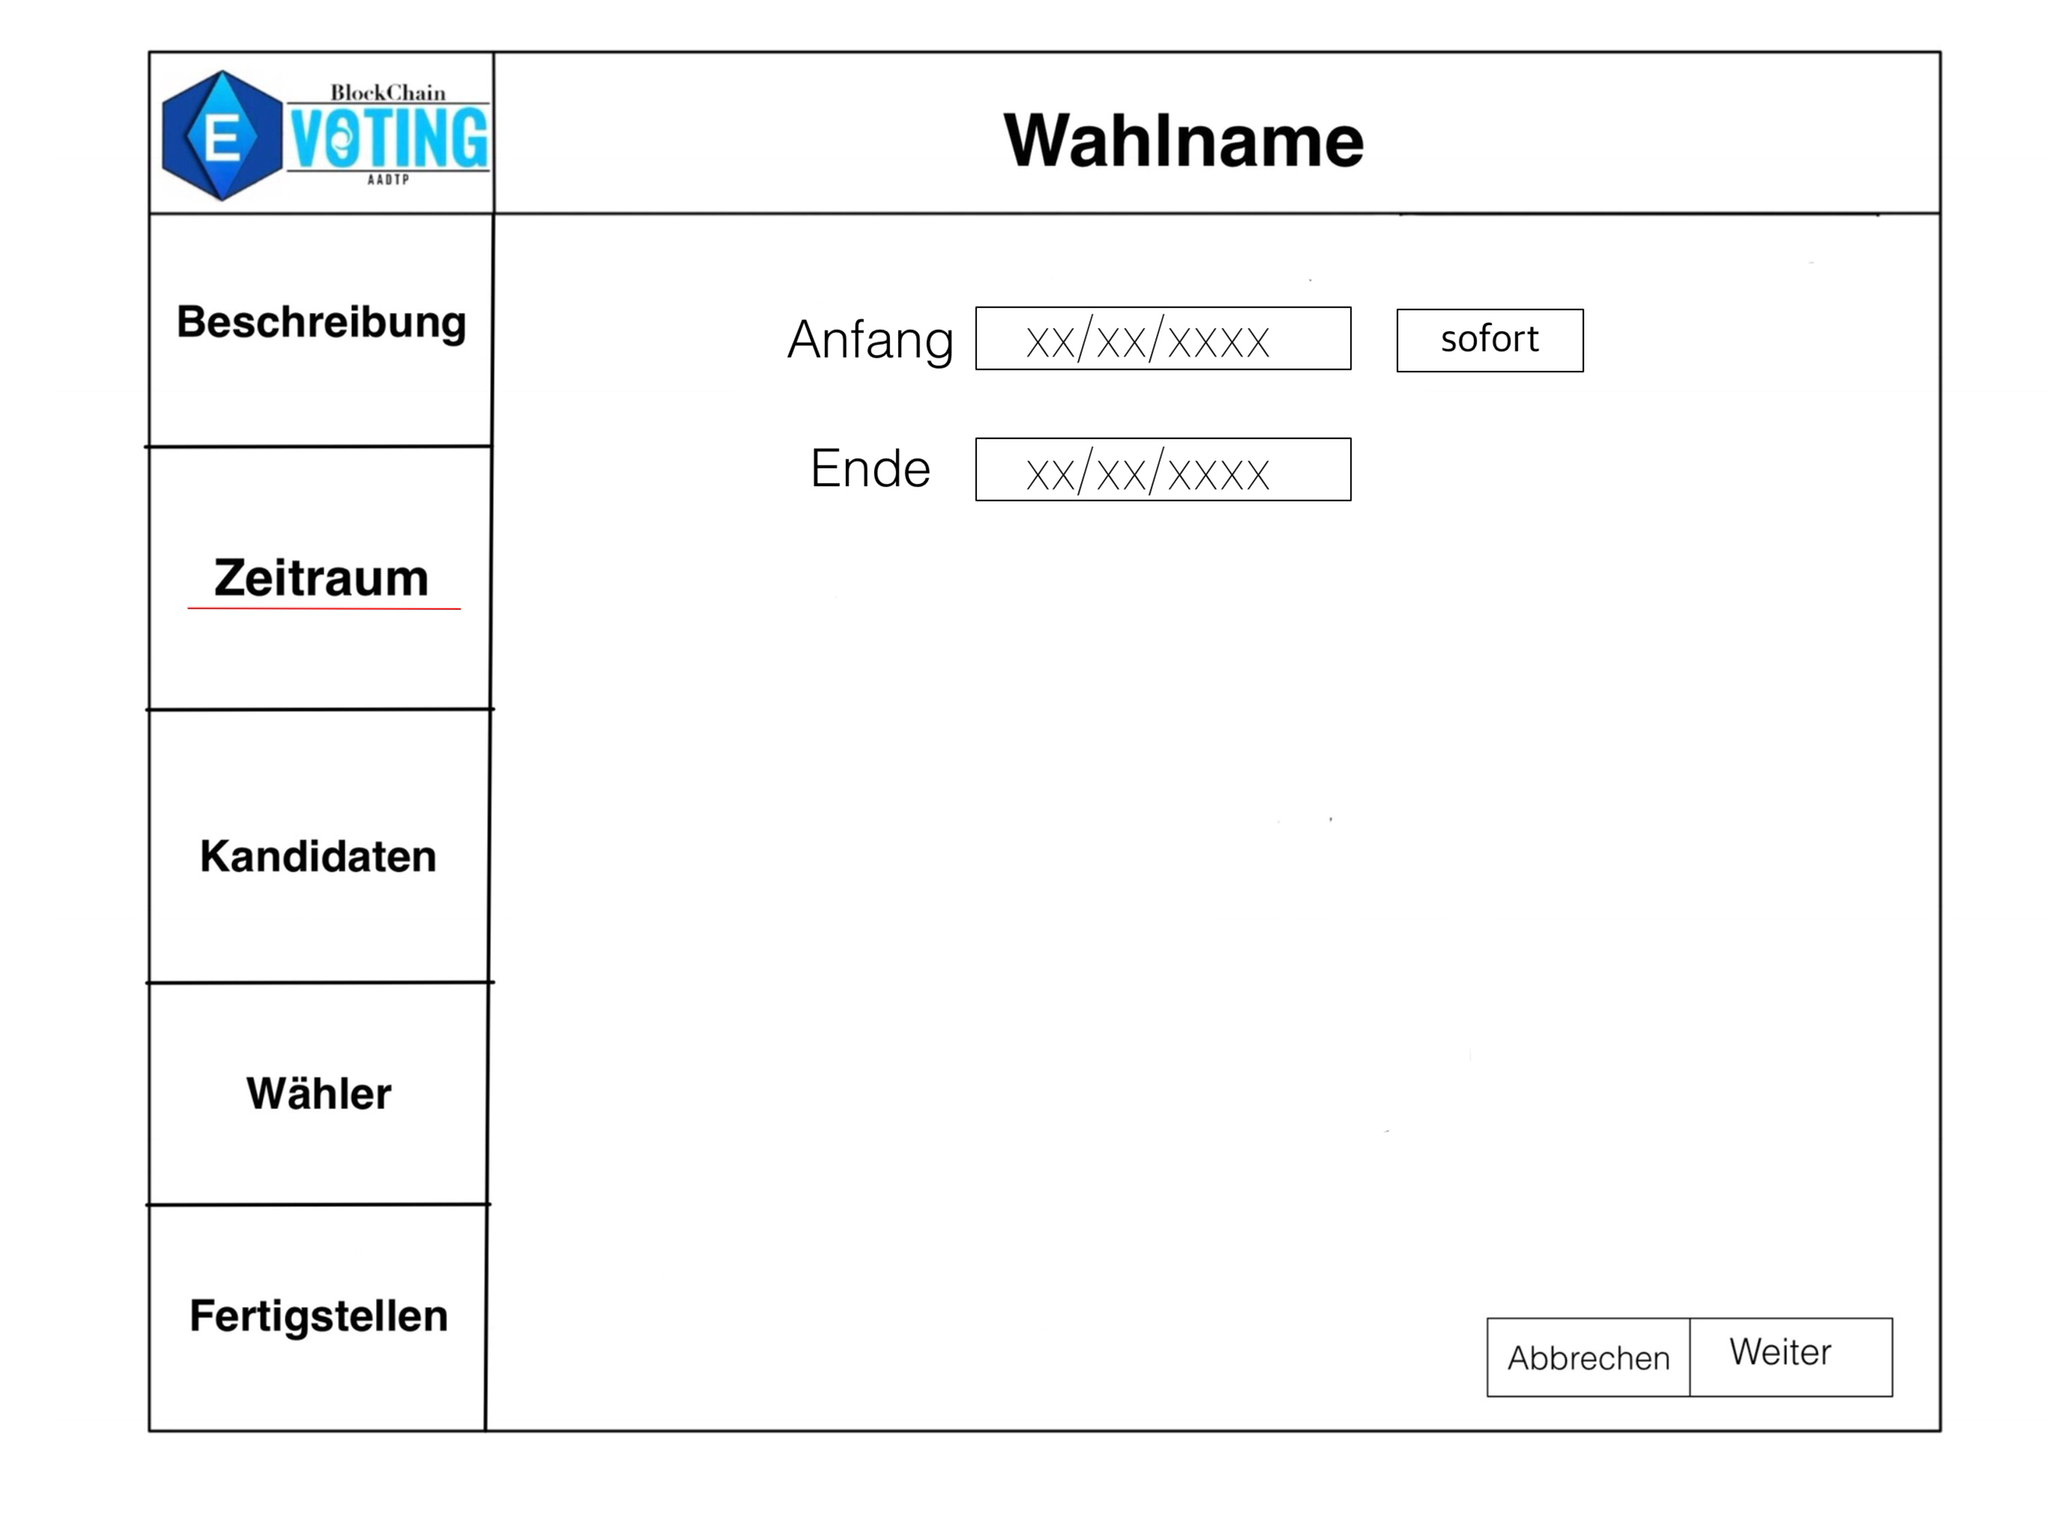
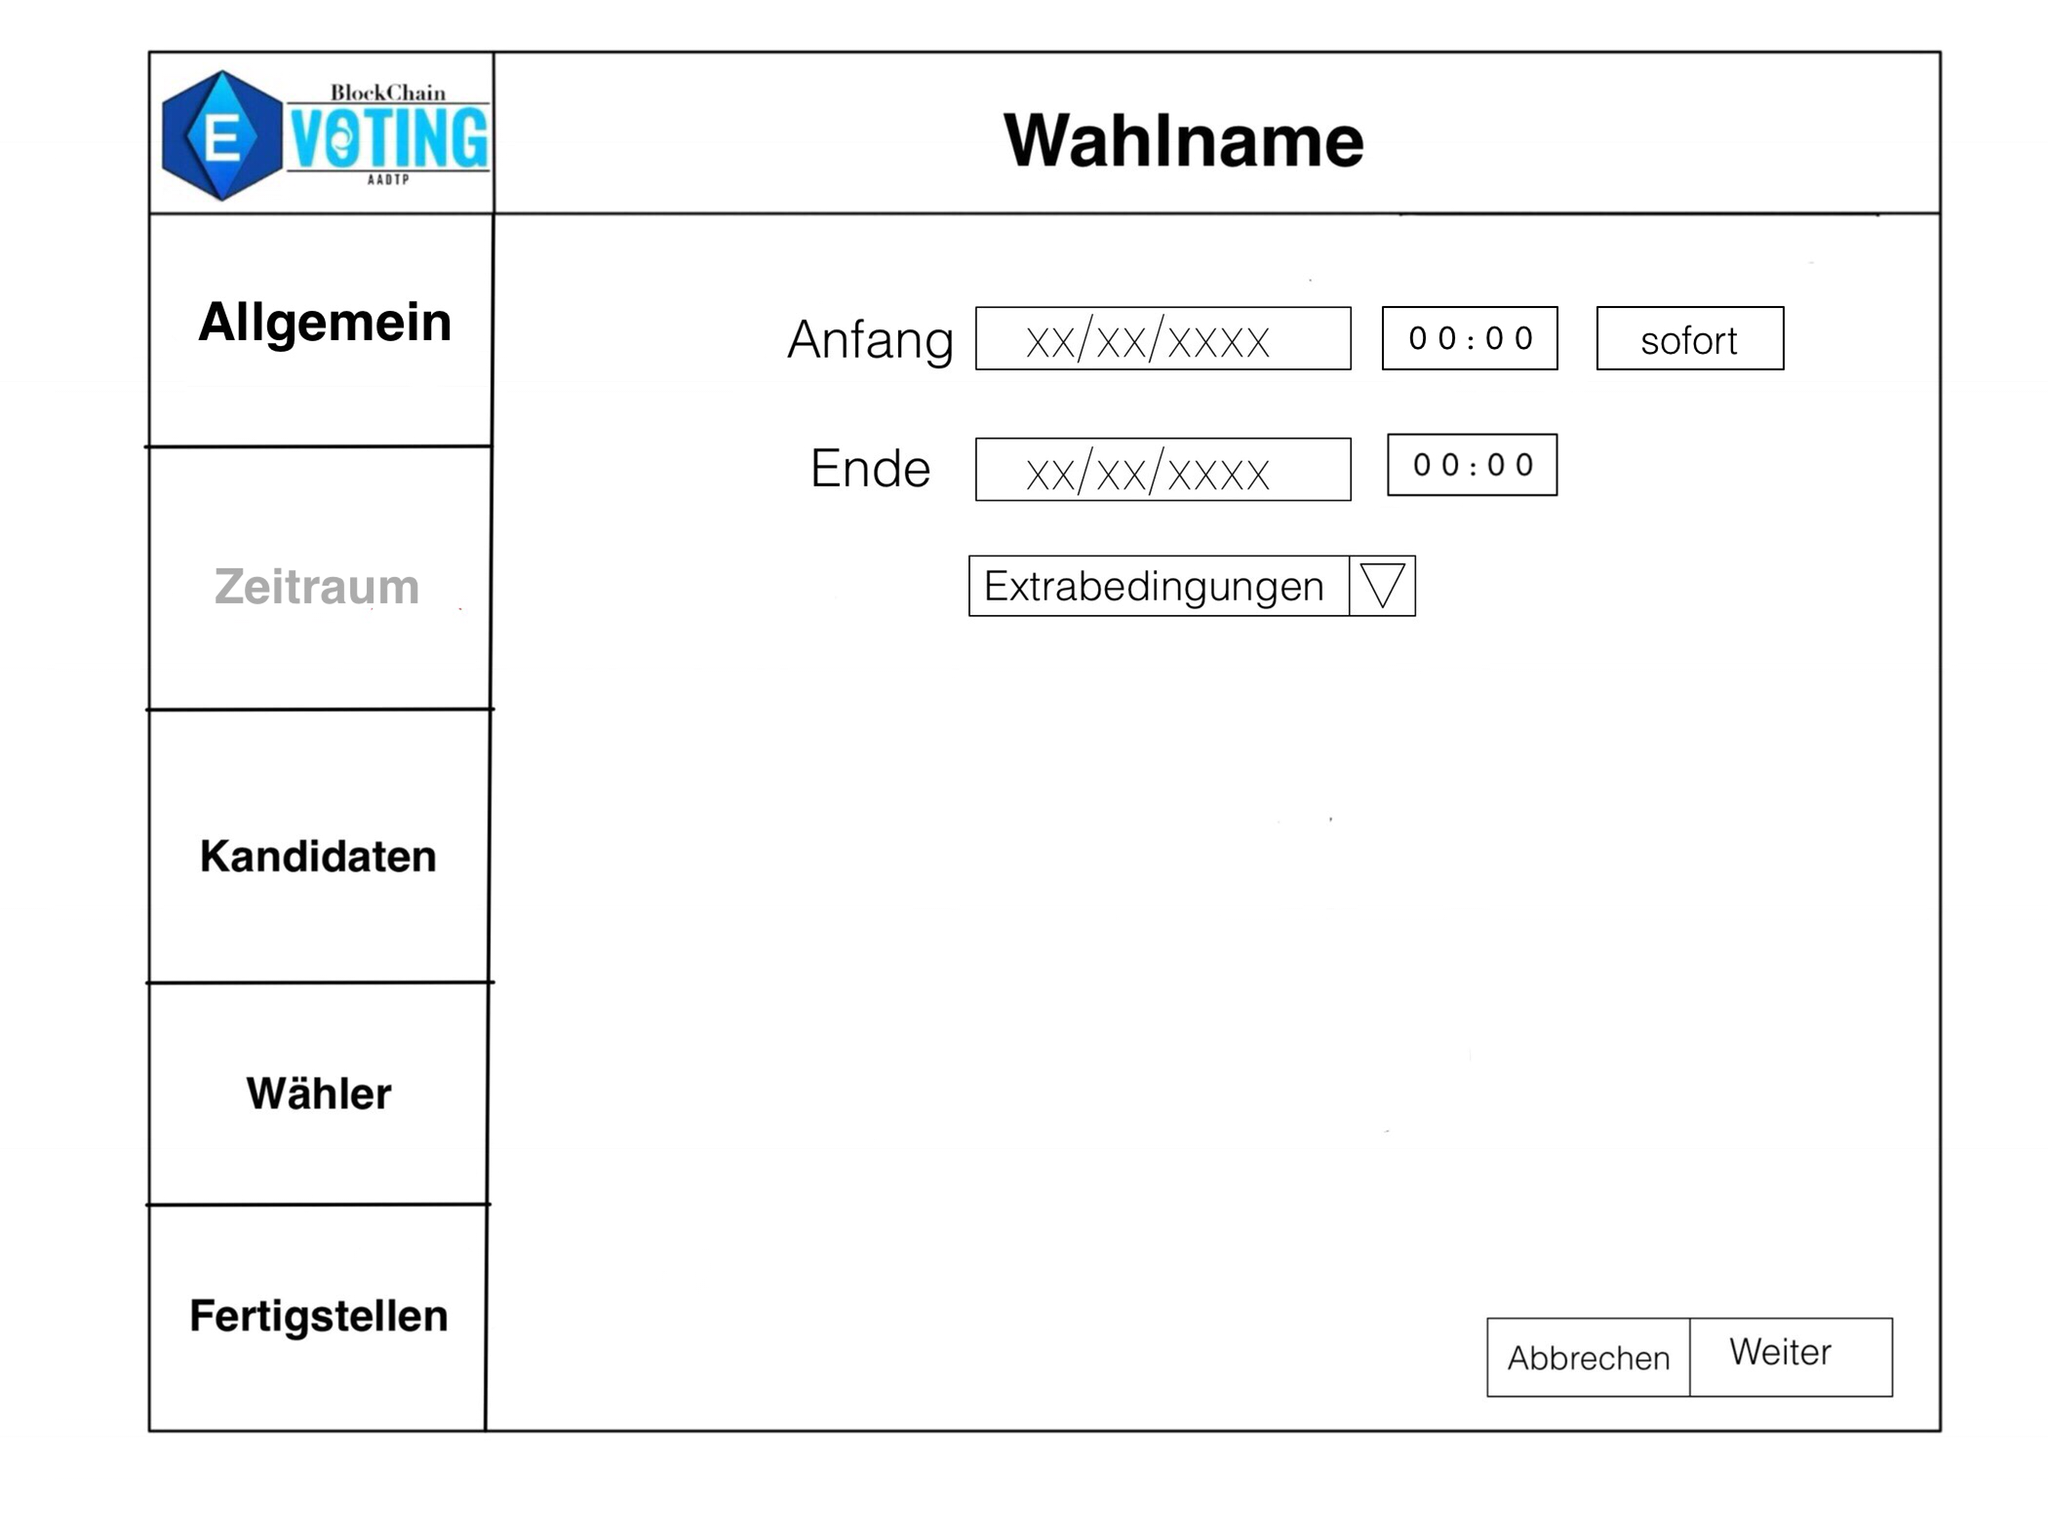
Updated UI and added new Wahlleiter UI

diff --git a/1-Pflichtenheft/pflichtenheft.tex b/1-Pflichtenheft/pflichtenheft.tex
@@ -413,6 +413,13 @@ Bei Problemen die Stimme eines Wählers in das \gls{Netzwerk} zu übertragen, wi
 \subsection{Wahlleiter}
 
 \begin{figure}[H]
+	\fbox{\includegraphics[width=\textwidth]{res/wahlleiter_start.jpg}}
+	\caption{\label{fig:wlltr-start}
+		Der \gls{Wahlleiter} kann über den \enquote{Wahlen importieren} Button eine bereits \glslink{Konfiguration}{konfigurierte} \gls{Wahl} laden oder über \enquote(Neue Wahlen erstellen) eine neue Wahl \glslink{Konfiguration}{konfigurieren}. 
+	}
+\end{figure}
+
+\begin{figure}[H]
 	\fbox{\includegraphics[width=\textwidth]{res/wahlleiter_allgemein.jpg}}
 	\caption{\label{fig:wlltr-general}
 		Allgemeine Einstellungen einer Wahl.
